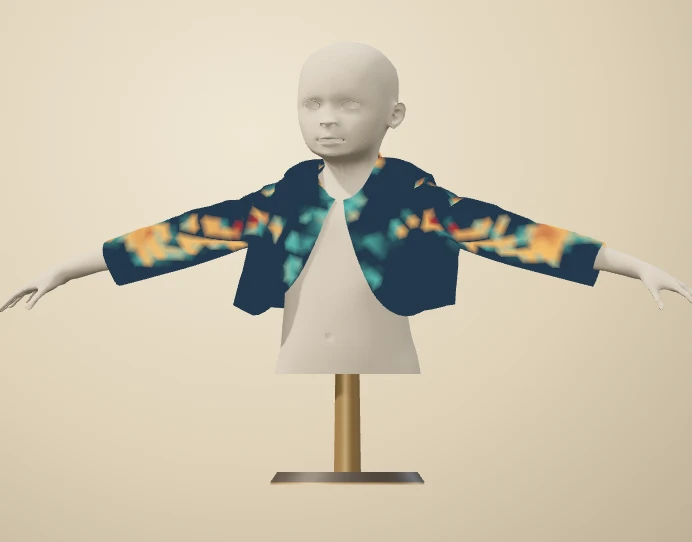
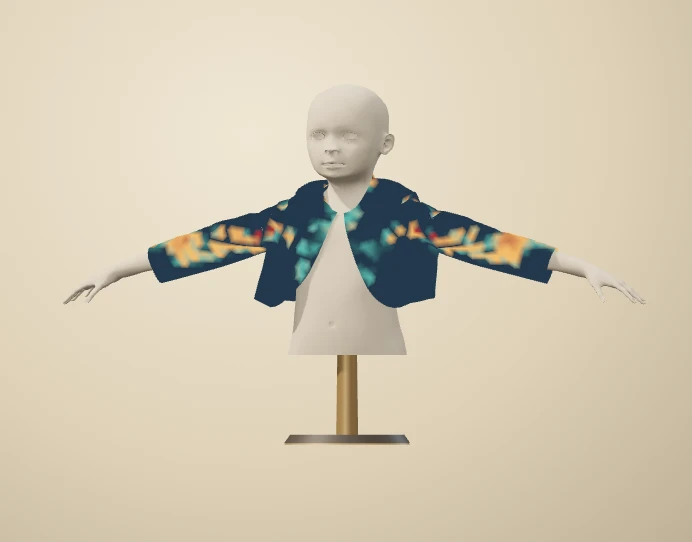
fix(showcase): frame raised sleeves to the wearer's arm span (ftx-ff6x)

Changed region(s): [[0.0, 0.0886, 1.0, 0.9151]]

diff --git a/showcase/components/DrapeRoomScene.tsx b/showcase/components/DrapeRoomScene.tsx
@@ -12,7 +12,7 @@ type Props = {
   frame: number; mode: StudioMode; reset: number;
   onReady: (run: string) => void; onError: (run: string) => void;
 };
-declare global {interface Window {ftxPoseCamera?: (yaw:number, y:number, half:number, z?:number)=>void}}
+declare global {interface Window {ftxPoseCamera?: (yaw:number, y:number, half?:number, z?:number)=>void}}
 
 async function response(path: string, signal: AbortSignal) {
   const result = await fetch(path, {signal});
@@ -40,6 +40,11 @@ async function readRun(run: string, strain: Props["strain"], timeline: Props["ti
     return points;
   }
   const skin = coordinates(vertices*3);
+  // The form turns about this Z-up body axis. Raised fingertips set the widest view.
+  let turnRadius=0;
+  for(let i=0;i<skin.length;i+=3){
+    turnRadius=Math.max(turnRadius,Math.hypot(skin[i],-skin[i+1]-.065));
+  }
   const triangles = new Uint32Array(packed, offset, indices);
   offset += indices * 4;
   const frames = coordinates(layout.frames.length * layout.vertices * 3);
@@ -62,7 +67,7 @@ async function readRun(run: string, strain: Props["strain"], timeline: Props["ti
   body.setIndex([...torso,...arms]);
   body.addGroup(0,torso.length,0);body.addGroup(torso.length,arms.length,1);
   body.computeBoundingBox();
-  return {body,garment,frames:layout.sourceFrames,dispose(){body.dispose();garment.dispose();}};
+  return {body,garment,halfWidth:Math.max(.50,turnRadius*1.12),frames:layout.sourceFrames,dispose(){body.dispose();garment.dispose();}};
 }
 
 export default function DrapeRoomScene(props: Props) {
@@ -130,7 +135,7 @@ export default function DrapeRoomScene(props: Props) {
       const opened=Math.max(0,1-t*2.2);
       const centerY=.177;
       camera.position.y+=centerY-controls.target.y; controls.target.y=centerY;
-      const half=Math.max(.34,(.47+opened*.23)/(w/h))+opened*.045;
+      const half=Math.max(.36,(current.halfWidth+opened*.23)/(w/h))+opened*.045;
       camera.top=half;camera.bottom=-half;camera.left=-half*w/h;camera.right=-camera.left;camera.updateProjectionMatrix();
       current.garment.pose(mode,t,false,w/h);
       form.visible=pedestal.visible=ground.visible=current.garment.sampledFrame>=87;
@@ -154,7 +159,7 @@ export default function DrapeRoomScene(props: Props) {
     };
     function resize(){w=el.clientWidth;h=el.clientHeight;if(w&&h){renderer.setSize(w,h,false);update();}}
     const observer=new ResizeObserver(resize);observer.observe(el);
-    const capture=(yaw:number,y:number,half:number,z=.067)=>{
+    const capture=(yaw:number,y:number,half=Math.max(.36,(current?.halfWidth??.50)*h/w),z=.067)=>{
       camera.zoom=1;controls.target.set(0,y,z);
       camera.position.set(Math.sin(yaw)*1.8,y,z+Math.cos(yaw)*1.8);
       camera.top=half;camera.bottom=-half;camera.left=-half*w/h;camera.right=-camera.left;
